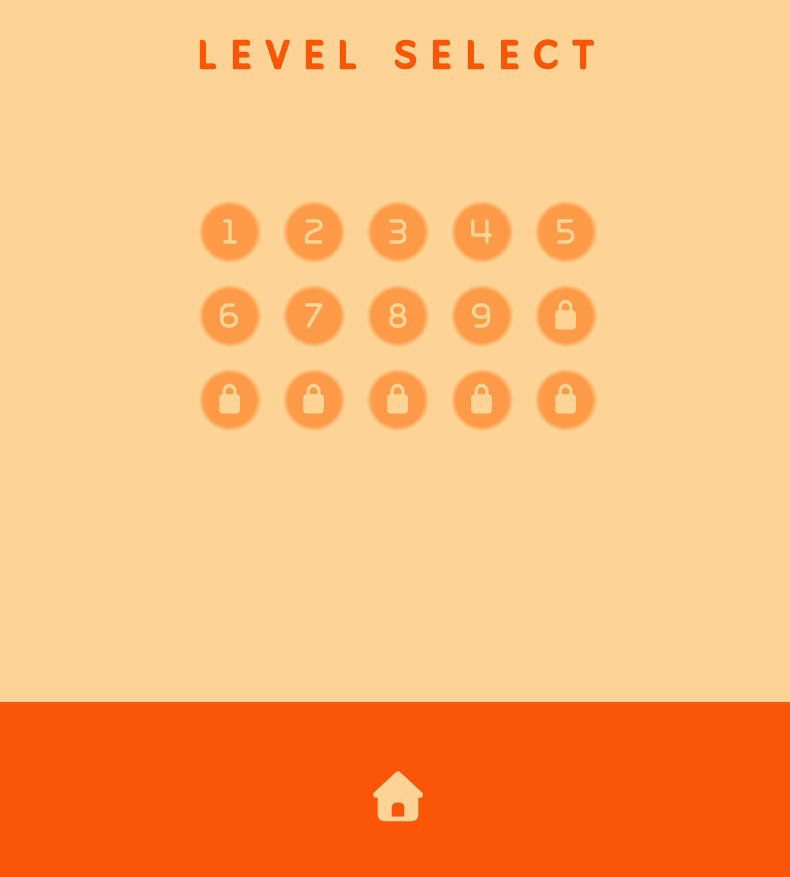
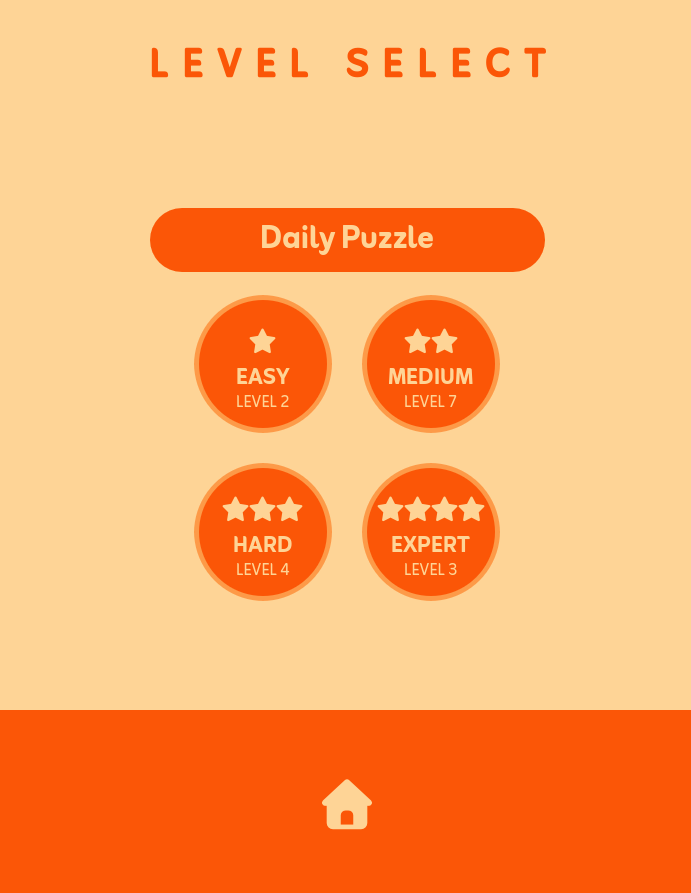
Updated README images

diff --git a/README.md b/README.md
@@ -19,7 +19,7 @@ Then in late July of 2026, I decided to come back to this project and I complete
 
 So far the code base has been completely reworked, with completely new UI, effects, and music. Then I added more levels, a level select system, save files.
 
-<img src="ExampleImgs/example.gif" height="400" /> <img src="ExampleImgs/levelselect.png" height="400" width="360"/> <img src="ExampleImgs/settings.png" height="400"/>
+<img src="ExampleImgs/example.gif" height="400" /> <img src="ExampleImgs/levelselect.png" height="400" /> <img src="ExampleImgs/settings.png" height="400"/>
 
 #### The game can currently be played at https://chicken502.itch.io/word-chains
 
